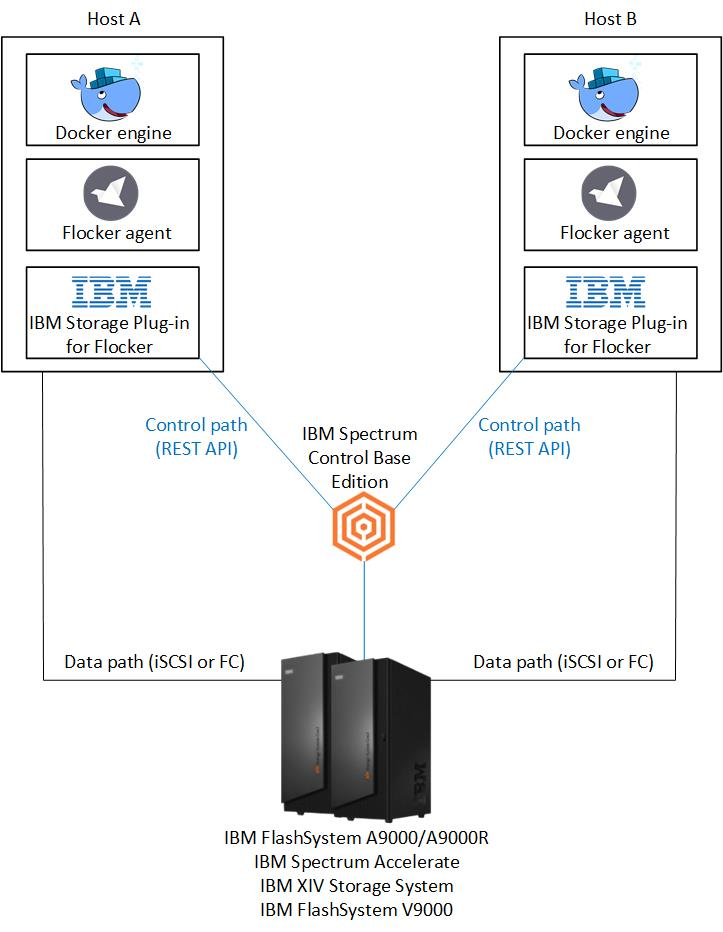
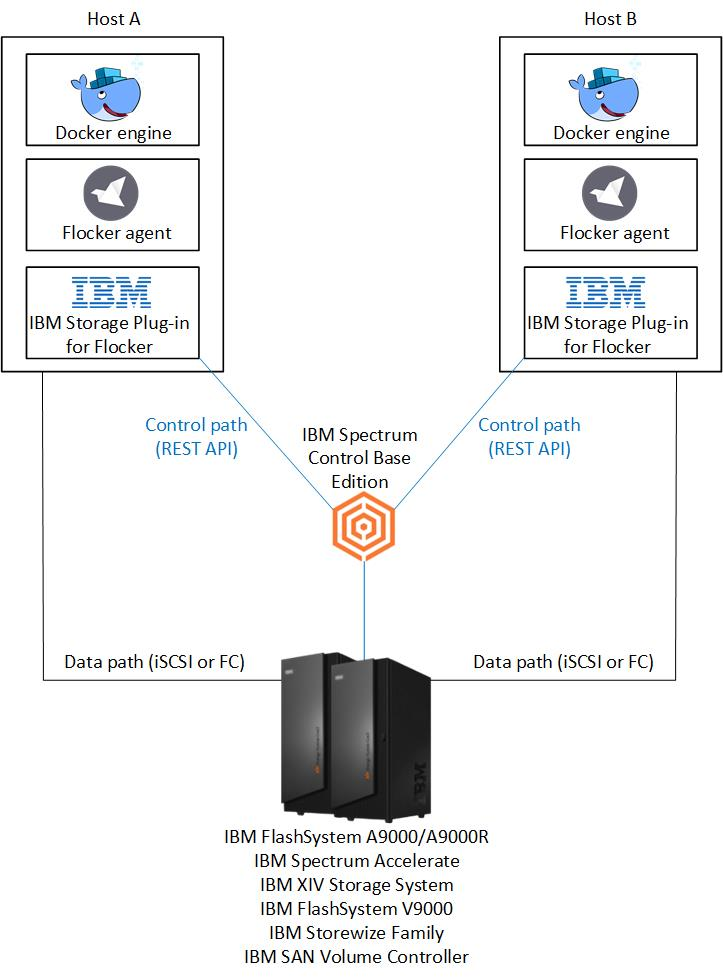
Update README.md
Adding IBM Storewize Family and IBM SAN Volume Controller to the README file, after they passed successfully the Flocker Functional and Acceptance tests.

Changed region(s): [[0.0609, 0.6534, 0.9433, 0.9957], [0.0, 0.0, 0.6086, 0.6223], [0.6086, 0.0, 1.0, 0.4979]]

diff --git a/README.md b/README.md
@@ -7,7 +7,10 @@ The driver is certified for Flocker 1.15.0, Docker 12, RHEL 7.2 and IBM Spectrum
    - FlashSystem A9000/A9000R
    - Spectrum Accelerate
    - XIV
-- IBM FlashSystem V9000
+- IBM Spectrum Virtualize Family products:
+   - IBM SAN Volume Controller
+   - IBM Storewize Family
+   - IBM FlashSystem V9000
 
 ## IBM Storage Plug-in for Flocker diagram
 ![ibm_storage_flocker_diagram](ibm_storage_flocker_diagram.jpg)
@@ -83,7 +86,7 @@ The plug-in supports FC or iSCSI connectivity to the storage systems.
        ```bash
           iscsiadm -m discoverydb -t st -p ${Storage System iSCSI Portal IP}:3260 --discover
        ```
-    * Log in to iSCSI ports. You must define at least two iSCSI ports per storage system to achieve multipathing.
+    * Log in to iSCSI ports. You must have at least two communication paths from your host to the storage system to achieve multipathing.
     
        ```bash
           iscsiadm -m node  -p ${storage system iSCSI portal IP/hostname} --login
